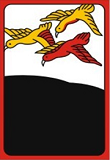
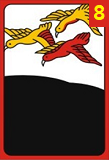
카드에 숫자 추가

diff --git a/src/client/RunClient.java b/src/client/RunClient.java
@@ -44,36 +44,6 @@ public class RunClient {
 		
 		EventQueue.invokeLater(() -> new LoginFrame()); // 쓰레드 충돌 방지
 		
-//		for(String serverIp : SERVERS_IP) {
-//			new Thread(() -> {
-//				logger.info("\"" + serverIp + "\"에 연결 시도");
-//				try {
-//					init(new Socket(serverIp, port));
-//				}
-//				catch (UnknownHostException e) { e.printStackTrace(); }
-//				catch (IOException e) { if(!initialized) logger.info("[" + serverIp + "] " + e.getMessage()); }
-//			}).start();
-//		}
-		
 	} // main();
 	
-//	private static boolean initialized = false;
-//	private static synchronized void init(Socket socket) throws SocketException {
-//		
-//		if(initialized)
-//			return;
-//		initialized = true;
-//		
-//		logger.info("서버\"" + socket.getRemoteSocketAddress() + "\"에 접속 성공");
-//		PlayerVO.myVO.setSocketWithBrPw(socket);
-//		
-//		try { UIManager.setLookAndFeel(UIManager.getSystemLookAndFeelClassName()); } // OS 호환
-//		catch (ClassNotFoundException | InstantiationException | IllegalAccessException | UnsupportedLookAndFeelException e) {
-//			try { UIManager.setLookAndFeel(UIManager.getCrossPlatformLookAndFeelClassName()); }
-//			catch (ClassNotFoundException | InstantiationException | IllegalAccessException | UnsupportedLookAndFeelException e1) { logger.error(e1.getMessage());}
-//		}
-//		
-//		EventQueue.invokeLater(() -> new LoginFrame()); // 쓰레드 충돌 방지
-//		
-//	} //init();
 } // class RunClient;

diff --git a/src/client/ui/LoginFrame.java b/src/client/ui/LoginFrame.java
@@ -45,7 +45,6 @@ public class LoginFrame implements LoginResultHandler {
 	private Background back = new Background();
 	private JoinFrame joinFrame;
 	
-	
 	public LoginFrame() {
 		initialize();
 		frame.setVisible(true);
@@ -181,7 +180,7 @@ public class LoginFrame implements LoginResultHandler {
 	public void loginSuccess(PlayerVO player) {
 		if(frame.isDisplayable()) {
 			dispose();
-			Lobby.getInstance().lobbyScreen();;
+			Lobby.getInstance().lobbyScreen();
 		}
 	} //loginSuccess();
 
